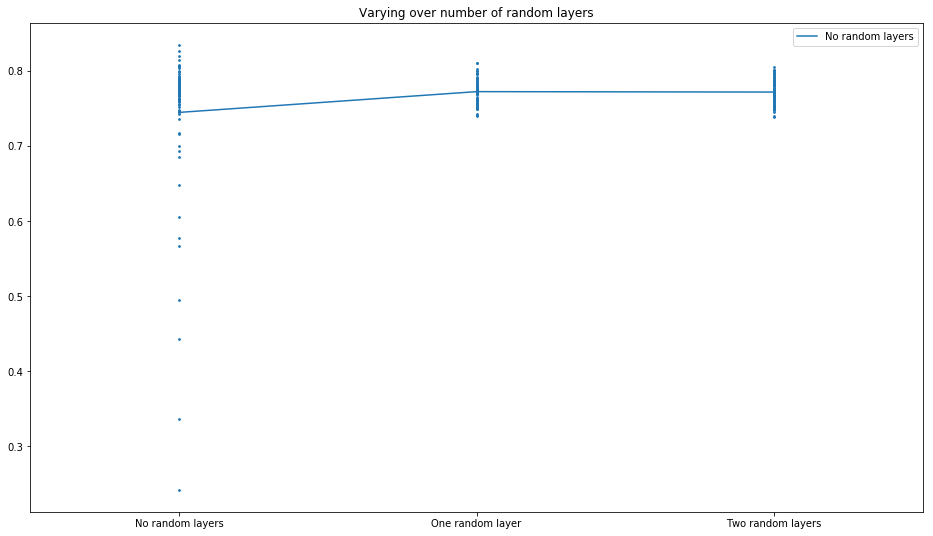
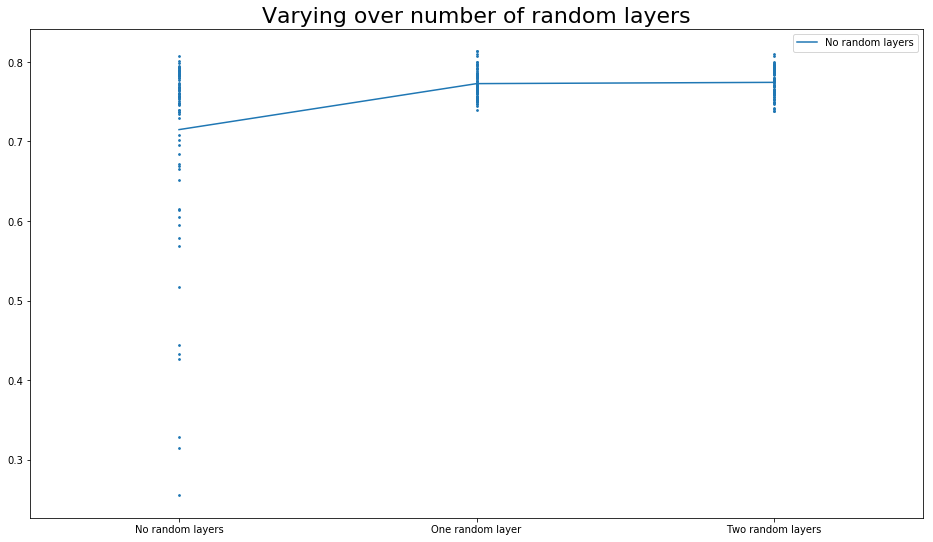
update font size of plot

diff --git a/code/plots/plotter.py b/code/plots/plotter.py
@@ -1,5 +1,9 @@
 import numpy as np
-from math import prod
+import operator
+from functools import reduce
+def prod(iterable):
+    return reduce(operator.mul, iterable, 1)
+# from math import prod
 from matplotlib import pyplot as plt
 
 
@@ -40,7 +44,7 @@ def plot_marginals(data, dimension_meaning, values, dimension_of_interest):
                     s=dot_size,
                 )
 
-        plt.title("Varying over " + dimension_meaning[i].lower())
+        plt.title("Varying over " + dimension_meaning[i].lower(), fontsize=22)
         plt.xticks(range(data.shape[0]), values[0])
         plt.legend([str(value) for value in values[i][:i + 1]])
         plt.xlim(-.5, len(values[0]) - .5)
